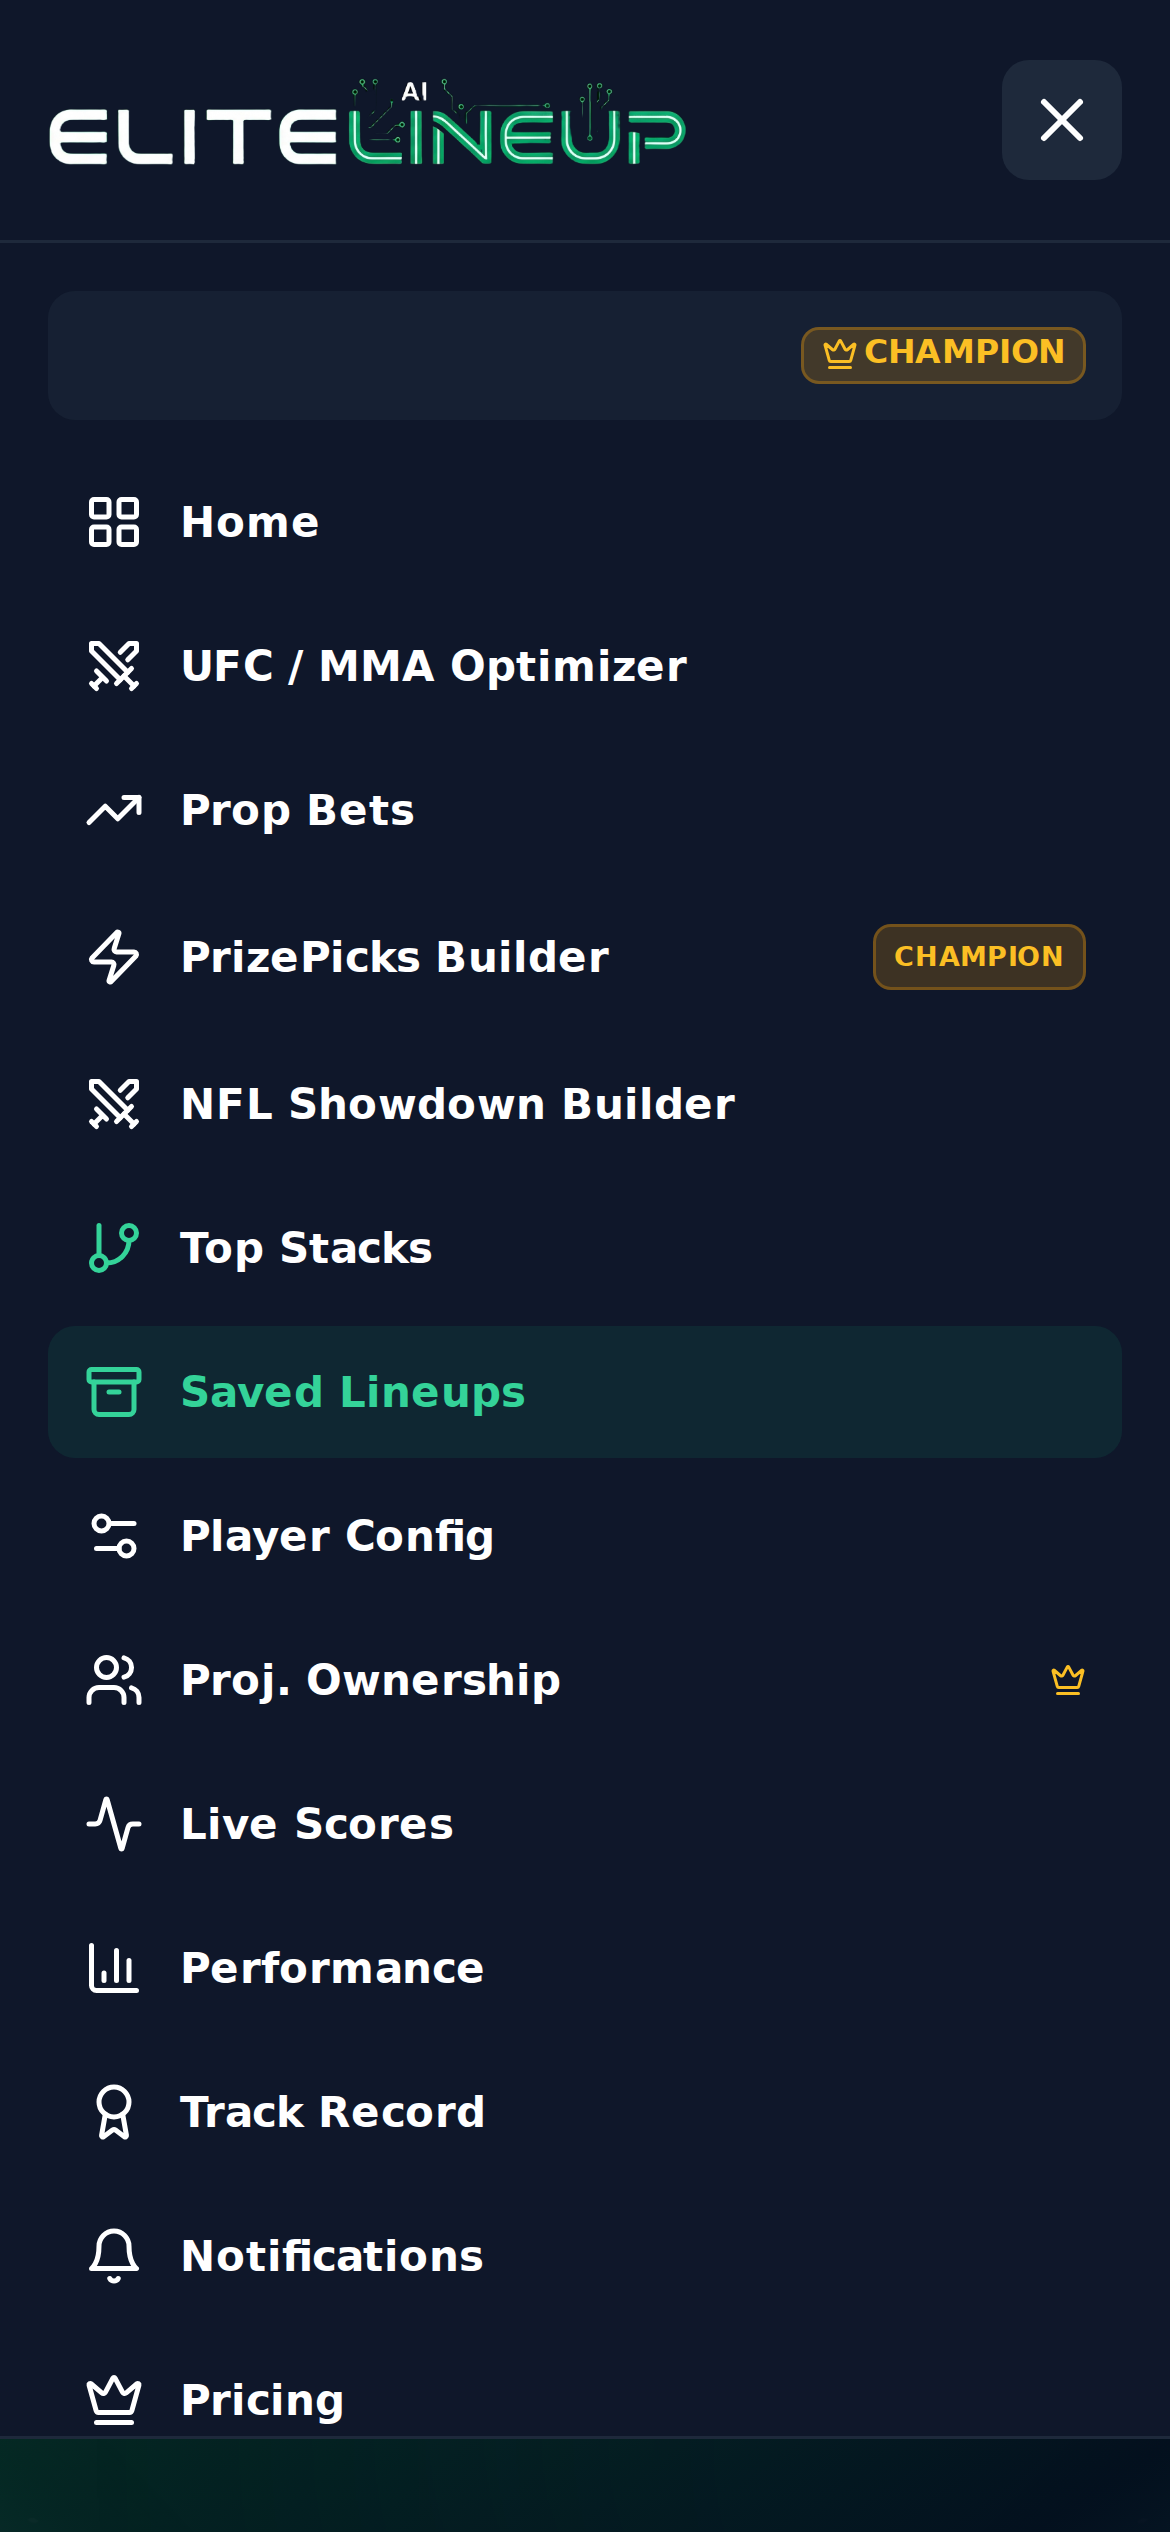
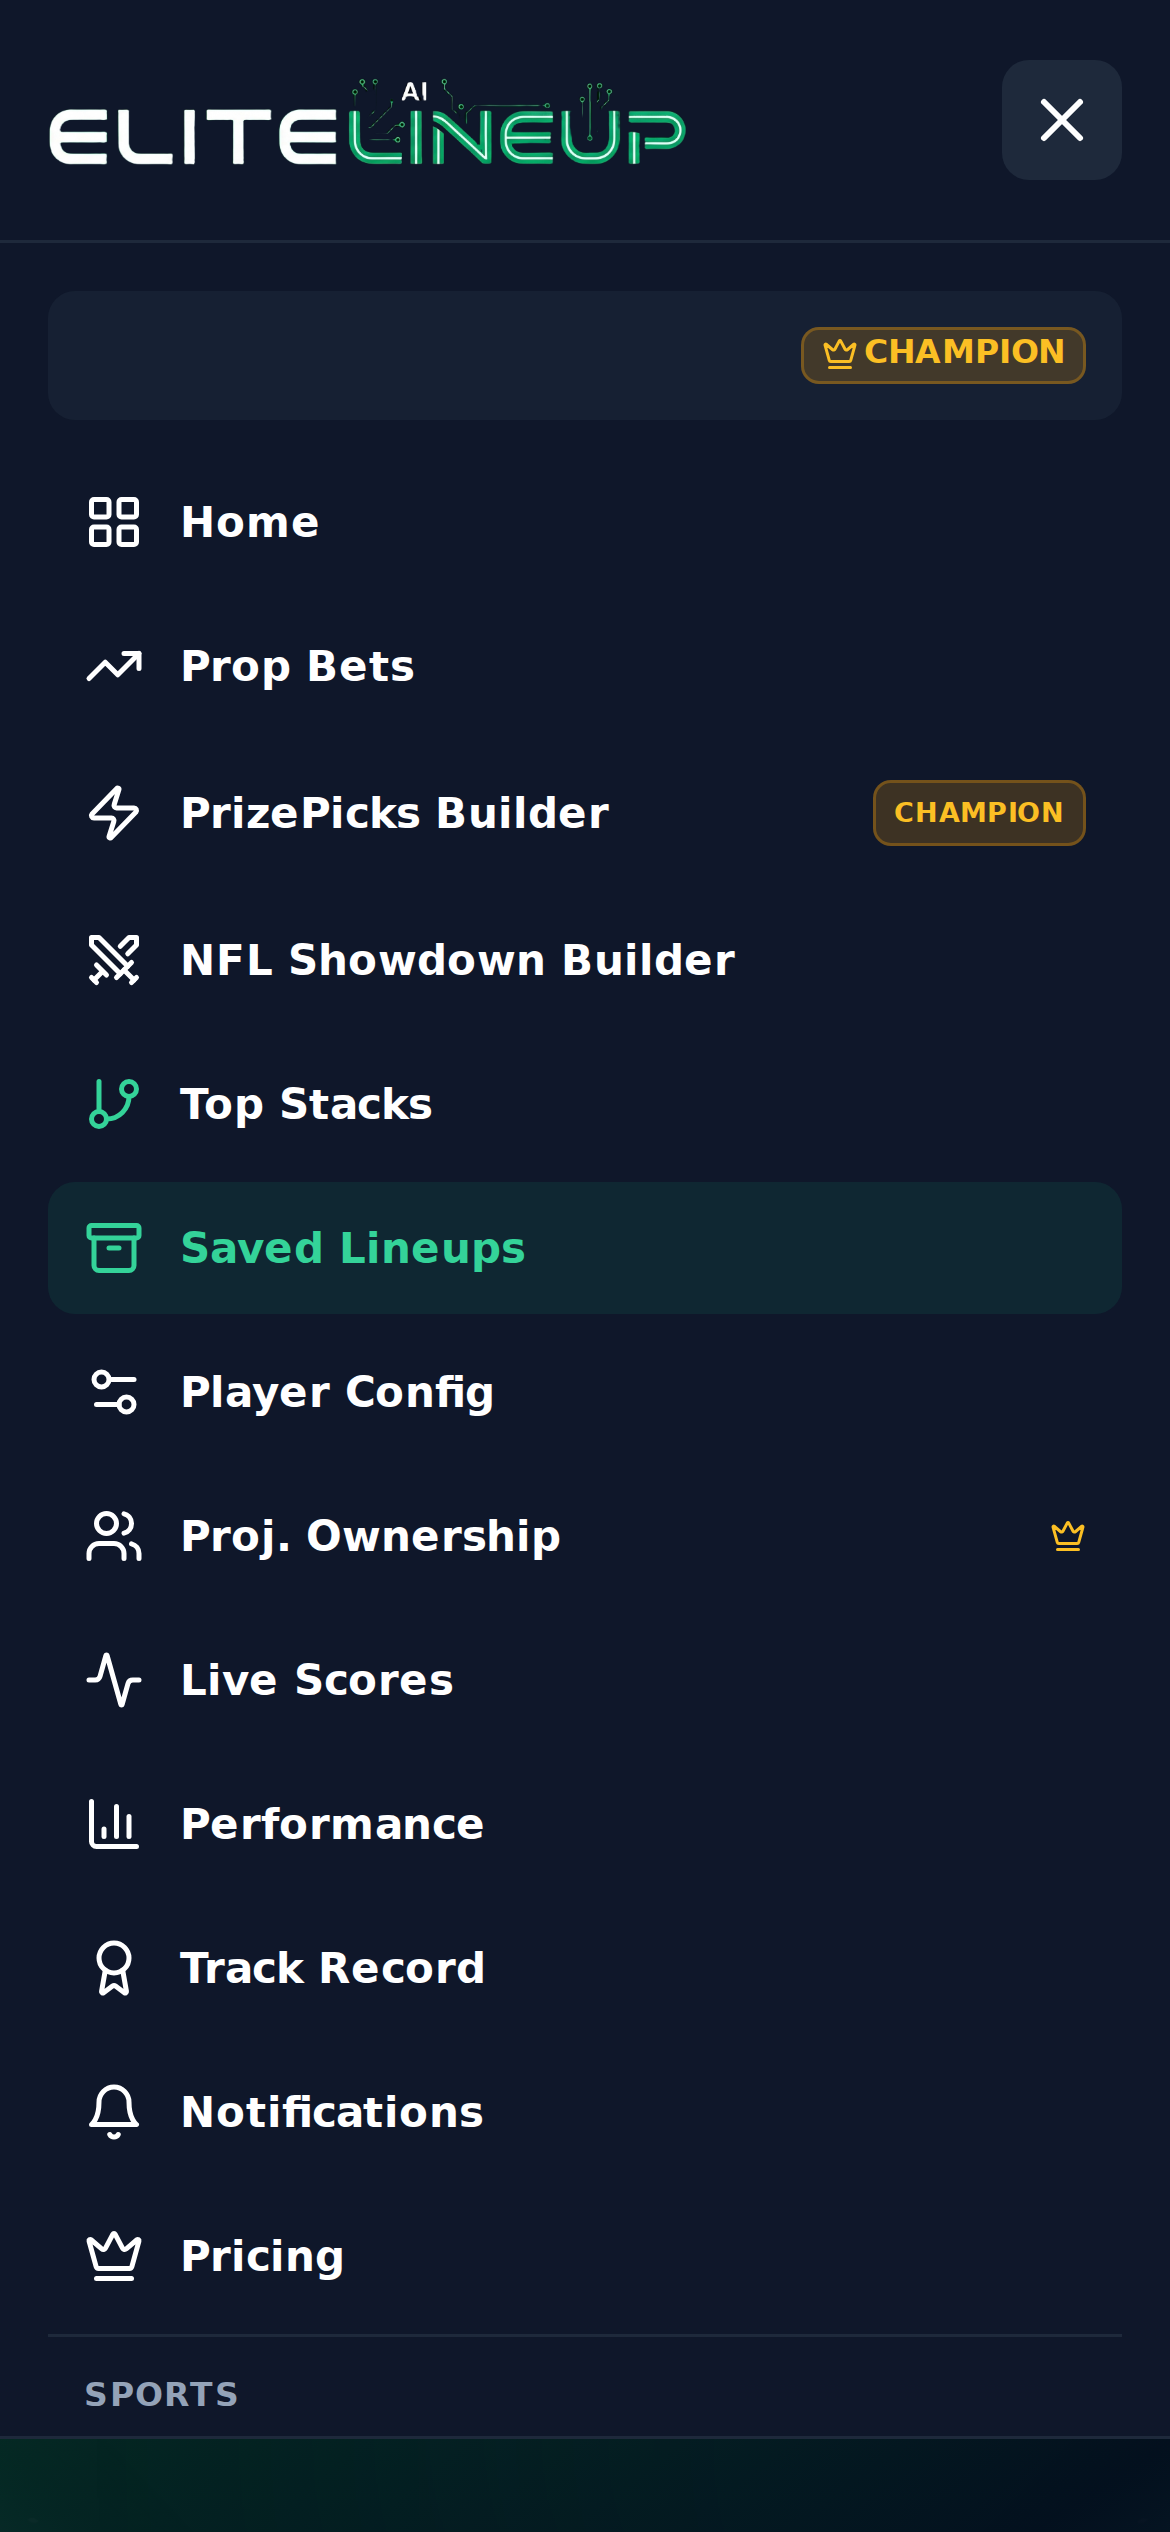
Refactor NBA components and implement score tracking features
Replit-Commit-Author: Agent

diff --git a/tests/e2e/nba-scores.spec.ts b/tests/e2e/nba-scores.spec.ts
@@ -1,0 +1,43 @@
+import { expect, test } from "@playwright/test";
+
+for (const state of ["scheduled", "empty", "error"] as const) {
+  test(`NBA home scoreboard handles ${state} feeds`, async ({ page }, testInfo) => {
+    await page.route("**/api/**", async route => {
+      const path = new URL(route.request().url()).pathname;
+      if (path === "/api/scores/NBA") {
+        return route.fulfill({
+          status: state === "error" ? 503 : 200,
+          json: state === "scheduled" ? [{
+            id: "nba-today", sport: "NBA", status: "pre", statusDetail: "Scheduled",
+            shortDetail: "7:30 PM ET", startTime: "2026-10-27T23:30:00Z",
+            homeTeam: { name: "Boston Celtics", abbreviation: "BOS", score: "0" },
+            awayTeam: { name: "Brooklyn Nets", abbreviation: "BKN", score: "0" },
+          }] : state === "error" ? { error: "Unavailable" } : [],
+        });
+      }
+      let data: unknown = {};
+      if (path === "/api/auth/user") data = { id: "nba-scores-test", firstName: "Test", tutorialDisabled: true };
+      else if (path === "/api/subscription") data = { tier: "pro" };
+      else if (path === "/api/alerts") data = { alerts: [], unreadCount: 0 };
+      else if (path === "/api/slates" || path.includes("/news") || path.includes("/daily-picks")) data = [];
+      await route.fulfill({ json: data });
+    });
+    await page.goto("/");
+    const panel = page.getByTestId("live-scores-section");
+    if (state === "scheduled") {
+      await expect(panel.getByTestId("game-card-nba-today")).toBeVisible();
+      await expect(panel).toContainText("BOS");
+      await expect(panel).toContainText("BKN");
+      await expect(panel).toContainText("7:30 PM ET");
+      await page.screenshot({ path: `screenshots/nba-scores-${testInfo.project.name}.png` });
+    } else if (state === "empty") {
+      await expect(panel).toContainText("No games scheduled today");
+    } else {
+      await expect(panel).toContainText("Game schedule is temporarily unavailable");
+      await expect(panel).not.toContainText("No games scheduled today");
+      await expect(panel.getByRole("button", { name: "Retry" })).toBeVisible();
+      await panel.getByRole("button", { name: "Retry" }).click();
+      await expect(panel).toContainText("Game schedule is temporarily unavailable");
+    }
+  });
+}

diff --git a/tests/espn-scores.test.ts b/tests/espn-scores.test.ts
@@ -1,0 +1,48 @@
+import assert from "node:assert/strict";
+import test from "node:test";
+import { getLiveScores } from "../server/espn-scores";
+
+test("NBA scoreboard fetches and caches the basketball schedule", async () => {
+  const originalFetch = globalThis.fetch;
+  let calls = 0;
+  globalThis.fetch = async (input) => {
+    calls++;
+    assert.equal(String(input), "https://site.api.espn.com/apis/site/v2/sports/basketball/nba/scoreboard");
+    return Response.json({ events: [{
+      id: "nba-today", date: "2026-10-27T23:30:00Z",
+      status: { type: { state: "pre", detail: "Scheduled" } },
+      competitions: [{ competitors: [
+        { homeAway: "home", team: { displayName: "Boston Celtics", abbreviation: "BOS" } },
+        { homeAway: "away", team: { displayName: "Brooklyn Nets", abbreviation: "BKN" } },
+      ] }],
+    }] });
+  };
+  try {
+    const scores = await getLiveScores("NBA");
+    assert.equal(scores.length, 1);
+    assert.equal(scores[0].sport, "NBA");
+    assert.equal(scores[0].status, "pre");
+    assert.ok("homeTeam" in scores[0]);
+    assert.equal(scores[0].homeTeam.abbreviation, "BOS");
+    assert.deepEqual(await getLiveScores("NBA"), scores);
+    assert.equal(calls, 1);
+  } finally {
+    globalThis.fetch = originalFetch;
+  }
+});
+
+test("score provider failures are not returned or cached as an empty schedule", async () => {
+  const originalFetch = globalThis.fetch;
+  let calls = 0;
+  globalThis.fetch = async () => {
+    calls++;
+    return new Response("Unavailable", { status: 503 });
+  };
+  try {
+    await assert.rejects(getLiveScores("NHL"), /503/);
+    await assert.rejects(getLiveScores("NHL"), /503/);
+    assert.equal(calls, 2);
+  } finally {
+    globalThis.fetch = originalFetch;
+  }
+});

diff --git a/client/src/pages/LiveScoreTracker.tsx b/client/src/pages/LiveScoreTracker.tsx
@@ -379,7 +379,7 @@ export default function LiveScoreTracker() {
   const [selectedSport, setSelectedSport] = useState<string>(defaultSport);
 
   // ── Scoreboard query (public, no auth needed, refetch every 30s)
-  const { data: scoreboardData, isLoading: boardLoading, dataUpdatedAt, refetch: refetchScoreboard } = useQuery<ScoreData[]>({
+  const { data: scoreboardData, isLoading: boardLoading, isError: boardError, dataUpdatedAt, refetch: refetchScoreboard } = useQuery<ScoreData[]>({
     queryKey: [`/api/scores/${selectedSport}`],
     queryFn: async () => {
       const res = await fetch(`/api/scores/${selectedSport}`);
@@ -537,9 +537,9 @@ export default function LiveScoreTracker() {
           ) : sortedScores.length === 0 ? (
             <div className="bg-[#1E293B] border border-slate-700/50 rounded-xl p-10 text-center">
               <Calendar className="w-10 h-10 text-slate-600 mx-auto mb-3" />
-              <h3 className="text-white font-bold mb-1">No games today</h3>
+              <h3 className="text-white font-bold mb-1">{boardError ? "Game schedule is temporarily unavailable" : "No games today"}</h3>
               <p className="text-slate-500 text-sm">
-                Check back on game days — scores update automatically.
+                {boardError ? "Please try refreshing the scores." : "Check back on game days — scores update automatically."}
               </p>
             </div>
           ) : selectedSport === "GOLF" ? (

diff --git a/client/src/components/Header.tsx b/client/src/components/Header.tsx
@@ -273,15 +273,6 @@ export function Header() {
               </div>
             </Link>}
 
-            <Link href="/mma-optimizer">
-              <div className={`flex items-center space-x-2 font-bold text-sm tracking-wide transition-colors cursor-pointer ${
-                currentPath === "/mma-optimizer" ? "text-emerald-400" : "text-slate-400 hover:text-white"
-              }`} data-testid="nav-mma-optimizer">
-                <Swords className="w-4 h-4" />
-                <span>UFC / MMA</span>
-              </div>
-            </Link>
-
             <DropdownMenu>
               <DropdownMenuTrigger asChild>
                 <button
@@ -628,17 +619,6 @@ export function Header() {
             >
               <LayoutGrid className="w-5 h-5 shrink-0" />
               <span>Home</span>
-            </button>
-
-            <button
-              onClick={() => mobileNav("/mma-optimizer")}
-              className={`w-full flex items-center gap-3 px-3 py-3 rounded-lg text-left text-sm font-bold transition-colors ${
-                currentPath === "/mma-optimizer" ? "bg-emerald-500/10 text-emerald-400" : "text-white hover:bg-slate-800"
-              }`}
-              data-testid="mobile-nav-mma-optimizer"
-            >
-              <Swords className="w-5 h-5 shrink-0" />
-              <span>UFC / MMA Optimizer</span>
             </button>
 
             {FEATURE_VISIBILITY.draftHub && <button

diff --git a/client/src/pages/Home.tsx b/client/src/pages/Home.tsx
@@ -873,7 +873,7 @@ function formatGameTime(startTime?: string) {
 }
 
 function LiveScoresSection({ sport }: { sport: string }) {
-  const { data: games, isLoading } = useQuery<LiveGameScore[]>({
+  const { data: games, isLoading, isError, refetch } = useQuery<LiveGameScore[]>({
     queryKey: [`/api/scores/${sport}`],
     refetchInterval: 120000,
   });
@@ -911,7 +911,14 @@ function LiveScoresSection({ sport }: { sport: string }) {
         </div>
         <Card className="bg-slate-800/30 border-border p-6 text-center" data-testid="no-games-message">
           <Clock className="w-6 h-6 text-slate-600 mx-auto mb-2" />
-          <p className="text-sm text-slate-400 font-bold">No games scheduled today</p>
+          <p className="text-sm text-slate-400 font-bold">
+            {isError ? "Game schedule is temporarily unavailable" : "No games scheduled today"}
+          </p>
+          {isError && (
+            <Button variant="outline" size="sm" className="mt-3" onClick={() => refetch()}>
+              Retry
+            </Button>
+          )}
         </Card>
       </div>
     );

diff --git a/server/espn-scores.ts b/server/espn-scores.ts
@@ -1,4 +1,5 @@
 const ESPN_SCOREBOARD_URLS: Record<string, string> = {
+  NBA: "https://site.api.espn.com/apis/site/v2/sports/basketball/nba/scoreboard",
   NHL: "https://site.api.espn.com/apis/site/v2/sports/hockey/nhl/scoreboard",
   MLB: "https://site.api.espn.com/apis/site/v2/sports/baseball/mlb/scoreboard",
   NFL: "https://site.api.espn.com/apis/site/v2/sports/football/nfl/scoreboard",
@@ -135,8 +136,7 @@ async function fetchScoresFromESPN(sport: string): Promise<ScoreData[]> {
 
   const response = await fetch(url);
   if (!response.ok) {
-    console.error(`[ESPN] Failed to fetch ${sport} scores: ${response.status}`);
-    return [];
+    throw new Error(`[ESPN] Failed to fetch ${sport} scores: ${response.status}`);
   }
 
   const data = await response.json();
@@ -162,7 +162,7 @@ export async function getLiveScores(sport: string): Promise<ScoreData[]> {
     console.error(`[ESPN] Error fetching ${sport} scores:`, err);
     const cached = scoreCache.get(sport);
     if (cached) return cached.data;
-    return [];
+    throw err;
   }
 }
 

diff --git a/tests/e2e/nba-menu.spec.ts b/tests/e2e/nba-menu.spec.ts
@@ -18,8 +18,10 @@ test("NBA menus expose the existing optimizer and simulation entry points", asyn
     await route.fulfill({ json: data });
   });
   await page.goto("/lineups");
+  await expect(page.getByTestId("nav-mma-optimizer")).toHaveCount(0);
   const desktop = testInfo.project.name === "desktop";
   await page.getByTestId(desktop ? "sport-selector" : "mobile-menu-btn").click();
+  await expect(page.getByTestId("mobile-nav-mma-optimizer")).toHaveCount(0);
   if (desktop) {
     await expect(page.getByTestId("sport-menu-nba-dk")).toBeEnabled();
     await expect(page.getByTestId("sport-menu-nba-dk").locator("..")).toHaveAttribute("href", "/optimizer/987001");

diff --git a/server/routes.ts b/server/routes.ts
@@ -4627,7 +4627,7 @@ export async function registerRoutes(
   app.get("/api/scores/:sport", async (req, res) => {
     try {
       const sport = req.params.sport.toUpperCase();
-      const validSports = ["NHL", "MLB", "NFL", "GOLF", "SOCCER"];
+      const validSports = ["NBA", "NHL", "MLB", "NFL", "GOLF", "SOCCER"];
       if (!validSports.includes(sport)) {
         return res.status(400).json({ error: `Invalid sport: ${sport}. Valid: ${validSports.join(", ")}` });
       }

diff --git a/.agents/memory/nba-activation.md b/.agents/memory/nba-activation.md
@@ -7,3 +7,9 @@ NBA needs to be enabled as an active sport and highlighted on the landing page, 
 **Why:** The user corrected menu-only changes and said enabling the sport was the intended action.
 
 **How to apply:** Keep NBA active across sport discovery and live slate collection. Do not interpret this as applying NFL-specific GPP strategy rules to NBA.
+
+Sport activation is not verified by optimizer slates alone: independently check the dashboard's Live Scores schedule feed.
+
+**Why:** The optimizer had current NBA players while the dashboard still rejected NBA scores and incorrectly said no games were scheduled.
+
+**How to apply:** Verify both actual schedule responses and the dashboard's error/empty states before claiming NBA is working across the site.

diff --git a/.agents/memory/MEMORY.md b/.agents/memory/MEMORY.md
@@ -21,3 +21,4 @@
 - [Optimizer control visibility](optimizer-control-visibility.md) — responsive visual changes must not hide existing setup controls behind new laptop tabs.
 - [Historical data retention](historical-data-retention.md) — saved lineups and player history must be retained indefinitely for analysis.
 - [NBA activation](nba-activation.md) — NBA should be active and highlighted on the landing page, not merely exposed in menus.
+- [UFC MMA visibility](ufc-mma-visibility.md) — keep UFC/MMA hidden from desktop and phone navigation.

diff --git a/.agents/memory/ufc-mma-visibility.md b/.agents/memory/ufc-mma-visibility.md
@@ -1,0 +1,9 @@
+---
+name: UFC MMA visibility
+description: User's request to hide UFC/MMA.
+---
+Hide UFC/MMA from desktop and phone navigation.
+
+**Why:** The user asked to hide UFC MMA.
+
+**How to apply:** Do not restore UFC/MMA menu entries unless requested. Hiding navigation does not require deleting the optimizer or its saved data.
